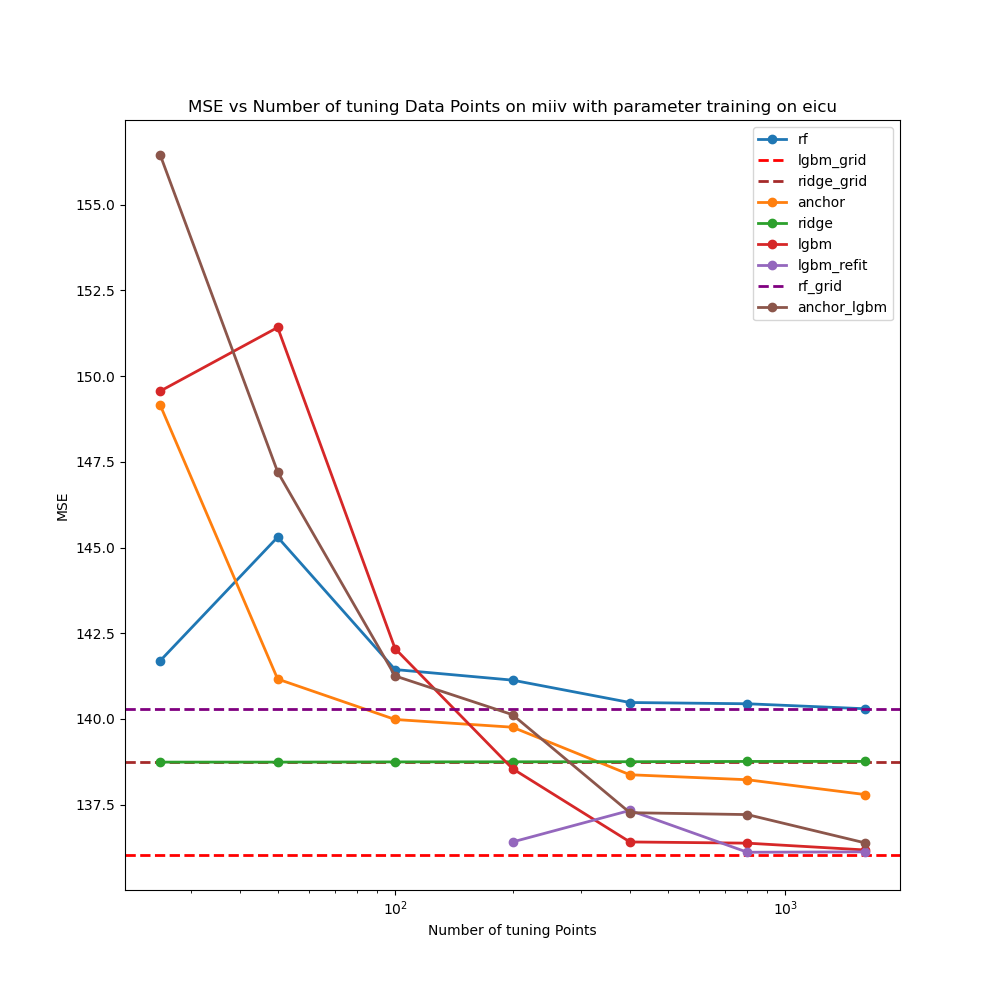
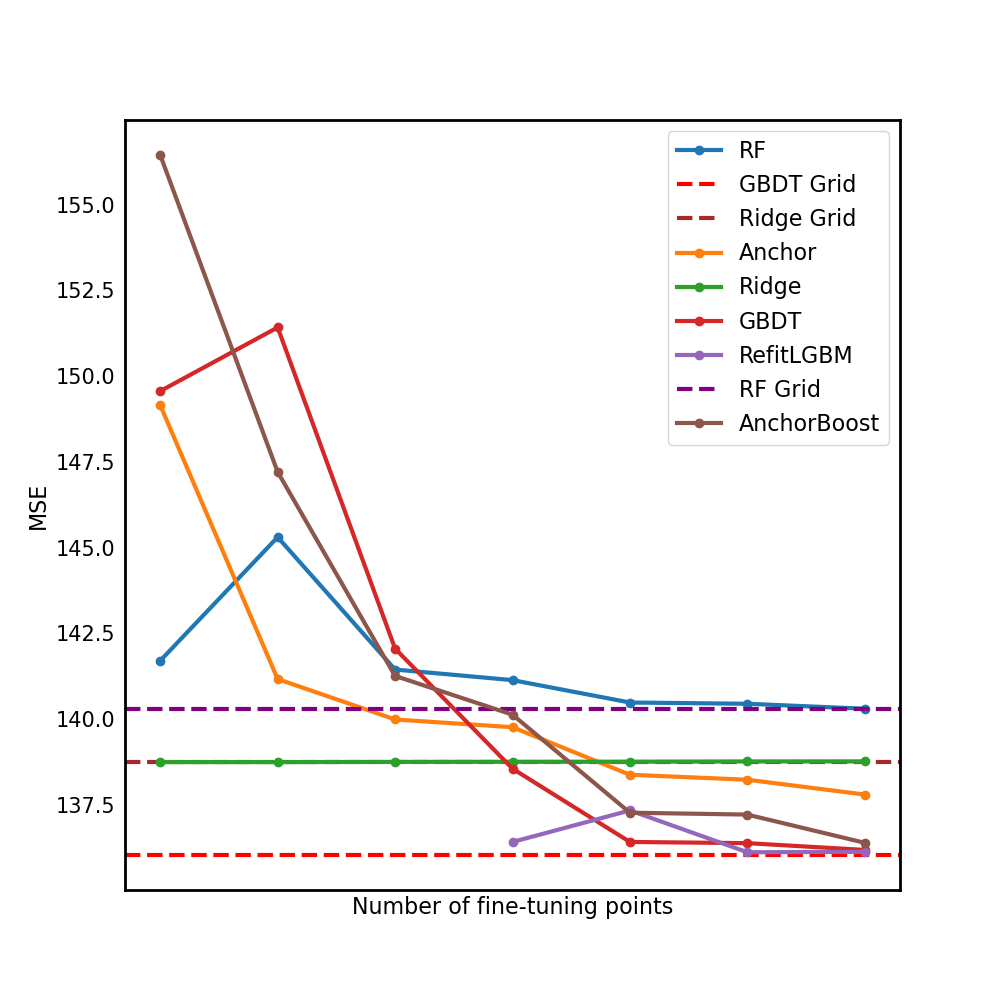
Small changes

diff --git a/Fine Tuning/plotting.py b/Fine Tuning/plotting.py
@@ -24,29 +24,28 @@ def plotting(sources, training_source, pattern=r'*_results.parquet'):
             print('Skip train source in plotting')
         else: 
             plt.figure(figsize=(10, 10))
-            plt.title(f"MSE vs Number of tuning Data Points on {source} with parameter training on {training_source}")
-            plt.xlabel("Number of tuning Points")
-            plt.ylabel("MSE")
+            #plt.title(f"MSE vs Number of tuning Data Points on {source} with parameter training on {training_source}")
+            plt.xlabel("Number of fine-tuning points", fontsize=16)
+            plt.ylabel("MSE", fontsize=16)
             for file in file_paths: 
                 _data=load_data_plotting(path=file)
                 df = pd.DataFrame(_data)
                 if 'tuning' not in file:
                     if 'grid' in file:
                         if 'ols' not in file: 
-                            parts=file.split('parquet/')
-                            parts2=parts[1].split('_results')
                             if 'rf' in file:
                                 df=df[lambda x: x['target'].eq(source)]
-                                plt.axhline(y=df['MSE'].iloc[0], linestyle = '--', color='purple', label=parts2[0], linewidth=2) 
+                                plt.axhline(y=df['MSE'].iloc[0], linestyle = '--', color='purple', label='RF Grid', linewidth=3) 
+                                plt.xticks(ticks=[25, 50, 100, 200, 400, 800, 1600])
                             if 'lgbm' in file:
                                 df=df[lambda x: x['target'].eq(source)]
-                                plt.axhline(y=df['MSE'].iloc[0], linestyle = '--', color='red', label=parts2[0], linewidth=2) 
+                                plt.axhline(y=df['MSE'].iloc[0], linestyle = '--', color='red', label='GBDT Grid', linewidth=3) 
+                                plt.xticks(ticks=[25, 50, 100, 200, 400, 800, 1600])
                             if 'ridge' in file:
                                 df=df[lambda x: x['target'].eq(source)]
-                                plt.axhline(y=df['MSE'].iloc[0], linestyle = '--', color='brown', label=parts2[0], linewidth=2) 
+                                plt.axhline(y=df['MSE'].iloc[0], linestyle = '--', color='brown', label='Ridge Grid', linewidth=3)
+                                plt.xticks(ticks=[25, 50, 100, 200, 400, 800, 1600]) 
                     else: 
-                        parts=file.split('parquet/')
-                        parts2=parts[1].split('_results')
                         group_columns = ["target", "n_test", "sample_seed"]
                         if 'refit' in file:
                             metric='mse target'
@@ -58,9 +57,36 @@ def plotting(sources, training_source, pattern=r'*_results.parquet'):
                         df = df.drop(columns=f"{metric}_min")
                         df.sort_values(group_columns,inplace=True)
                         df=df[lambda x: x['target'].eq(source)].groupby('n_test')['mse target'].mean().sort_index().reset_index()
-                        plt.plot(df['n_test'], df['mse target'], '-o', label=parts2[0], linewidth=2)
+                        if 'rf' in file:
+                                plt.plot(df['n_test'], df['mse target'], '-o', label='RF', linewidth=3)
+                                plt.xticks(ticks=[25, 50, 100, 200, 400, 800, 1600])
+                        if 'lgbm' in file:
+                            if 'refit' in file: 
+                                plt.plot(df['n_test'], df['mse target'], '-o', label='RefitLGBM', linewidth=3)
+                                plt.xticks(ticks=[25, 50, 100, 200, 400, 800, 1600])
+                            elif 'anchor' not in file:
+                                plt.plot(df['n_test'], df['mse target'], '-o', label='GBDT', linewidth=3)
+                                plt.xticks(ticks=[25, 50, 100, 200, 400, 800, 1600])
+                        if 'ridge' in file:
+                            plt.plot(df['n_test'], df['mse target'], '-o', label='Ridge', linewidth=3)
+                            plt.xticks(ticks=[25, 50, 100, 200, 400, 800, 1600])
+                        if 'anchor' in file:
+                            if 'lgbm' in file: 
+                                plt.plot(df['n_test'], df['mse target'], '-o', label='AnchorBoost', linewidth=3)
+                                plt.xticks(ticks=[25, 50, 100, 200, 400, 800, 1600])
+                            else:
+                                plt.plot(df['n_test'], df['mse target'], '-o', label='Anchor', linewidth=3)
+                                plt.xticks(ticks=[25, 50, 100, 200, 400, 800, 1600])
                     plt.xscale('log')
-                plt.legend()
+                plt.xticks(fontsize=15, size=15)
+                plt.tick_params(axis='x', bottom=False, which='both',  labelbottom=False)
+                plt.yticks(fontsize=15, size=15)
+                plt.tick_params(axis='y', width=0)
+                ax = plt.gca()
+                for spine in ax.spines.values():
+                    spine.set_linewidth(2)
+                if source != 'mimic':
+                    plt.legend(fontsize=16)    
             plt.savefig(f'plots/fine_tuning/{training_source} on {source}')
     plt.show()
     print('Script successfully executed')
@@ -96,7 +122,7 @@ def plot_tuning_by_gamma(sources, training_source, n_tuning_points):
             for n in n_tuning_points:
                 df=_df[lambda x: x['target'].eq(source) & x['n_test'].eq(n)].groupby(by=['gamma'])[['mse target']].mean().reset_index()
                 print(df)
-                plt.plot(df['gamma'].unique(),df['mse target'], '-o', linewidth=2, label=f'n_test={n}')
+                plt.plot(df['gamma'].unique(),df['mse target'], '-o', linewidth=3, label=f'n_test={n}')
                 plt.xscale('log')
             plt.legend()
             print('New source \n')
